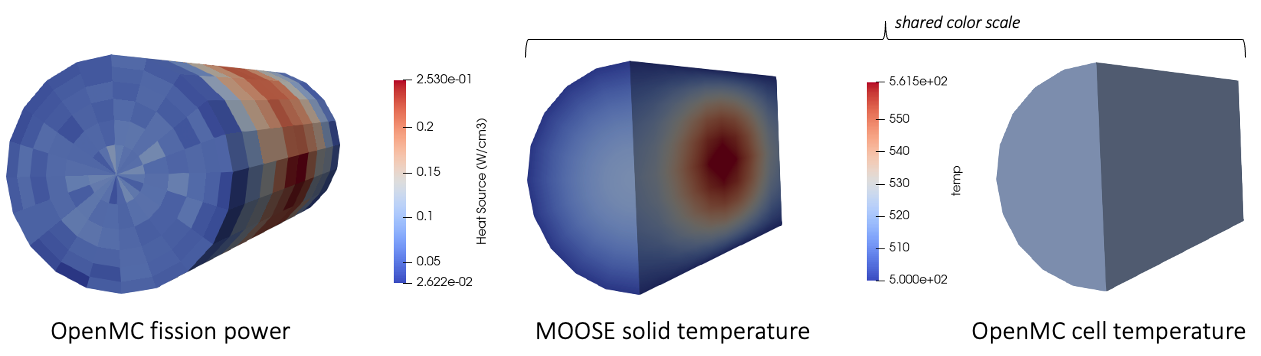
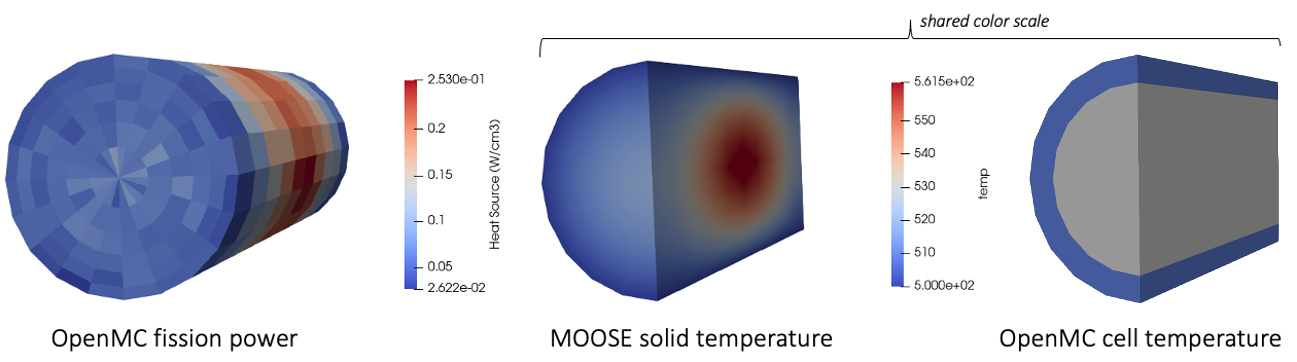
Update the Dagmc pincell test.

diff --git a/tutorials/dagmc/make_model.py b/tutorials/dagmc/make_model.py
@@ -45,5 +45,12 @@ p1.pixels = (400, 400)
 p1.color_by = 'material'
 p1.colors = {u235: 'yellow', water: 'blue'}
 
-plots = openmc.Plots([p1])
+p2 = openmc.Plot()
+p2.filename = 'plot2'
+p2.basis = 'xy'
+p2.width = (18.0, 18.0)
+p2.pixels = (400, 400)
+p2.color_by = 'cell'
+
+plots = openmc.Plots([p1, p2])
 plots.export_to_xml()

diff --git a/doc/content/tutorials/dagmc.md b/doc/content/tutorials/dagmc.md
@@ -2,7 +2,7 @@
 
 In this tutorial, you will learn how to:
 
-- Couple [!ac](DAGMC) models via temperature and heat source feedback to MOOSE for a pincell
+- Couple CAD Monte Carlo models via temperature and heat source feedback to MOOSE
 
 To access this tutorial,
 
@@ -18,17 +18,27 @@ No special computing needs are required for this tutorial.
 
 This model consists of a pincell, taken directly from an
 [OpenMC DAGMC tutorial](https://github.com/openmc-dev/openmc-notebooks/blob/main/cad-based-geometry.ipynb).
+[!ac](DAGMC) is a package for Monte Carlo transport on [!ac](CAD) geometry.
 We will not go into detail on how the DAGMC model was generated, but instead
 refer you to the [DAGMC documentation](https://svalinn.github.io/DAGMC/usersguide/index.html).
 
 The geometry consists of a U-235 cylinder enclosed in an annulus of water. The height is 40
-cm, and the outer diameter of the fuel cylinder is 14 cm.
+cm, and the outer diameter of the fuel cylinder is 18 cm.
 The total power is set to 1000 W. An image of the geometry is shown on the $x$-$y$ plane in
 [dagmc_geom].
 
 !media dagmc_pincell.png
   id=dagmc_geom
-  caption=OpenMC DAGMC geometry, on the $x$-$y$ plane.
+  caption=OpenMC DAGMC geometry colored by material, on the $x$-$y$ plane.
+  style=width:30%;margin-left:auto;margin-right:auto
+
+[dagmc_cells] shows the same DAGMC model, colored instead by cell. The two green regions
+are both U-235, while the purple is water. There is no particular reason why the model is
+built this way, since we are just fetching it from an existing OpenMC tutorial.
+
+!media dagmc_pincell_cell.png
+  id=dagmc_cells
+  caption=OpenMC DAGMC geometry colored by cell, on the $x$-$y$ plane.
   style=width:30%;margin-left:auto;margin-right:auto
 
 ### MOOSE Heat Conduction Model
@@ -36,7 +46,8 @@ The total power is set to 1000 W. An image of the geometry is shown on the $x$-$
 !include steady_hc.md
 
 [MeshGenerators](https://mooseframework.inl.gov/syntax/Mesh/index.html) are used to construct
-the solid mesh. [solid_mesh2] shows the solid mesh with block IDs and sidesets.
+the solid mesh. [solid_mesh2] shows the solid mesh with block IDs and sidesets. We will
+not model any heat transfer in the water region, for simplicity.
 Different block IDs are used for the hexahedral and prism elements
 in the pellet region because libMesh does not allow different element types
 to exist on the same block ID. To generate the mesh,
@@ -211,7 +222,8 @@ main application via subcycling, we would have a way to control that.
   start=Executioner
   end=Postprocessors
 
-Finally, we add a postprocessor to evaluate the total heat source computed by OpenMC.
+Finally, we add a postprocessor to evaluate the total heat source computed by OpenMC
+and query other parts of the solution.
 
 !listing /tutorials/dagmc/openmc.i
   block=Postprocessors
@@ -236,12 +248,13 @@ When the simulation has completed, you will have created a number of different o
 [dagmc_heat_source] shows the heat source computed by OpenMC (units of W/cm$^3$)
 and mapped to the MOOSE mesh, the solid temperature computed by MOOSE, and the
 temperature imposed in OpenMC. The two images showing temperature share a color scale,
-and are depicted as a slice through the pellet. Because the DAGMC model only has a single cell to
+and are depicted as a slice through the pellet. Because the DAGMC model only has two cells to
 represent the fuel region, the temperature imposed in OpenMC is a volume average
-over this entire region.
+over the elements corresponding to each of those two cells.
 If you want to resolve the solid temperature
 with more detail in the OpenMC model, simply add OpenMC cells where finer feedback
-is desired.
+is desired - *or*, you can adaptively re-generate the OpenMC cells using
+the [MoabSkinner](https://cardinal.cels.anl.gov/source/userobjects/MoabSkinner.html).
 
 !media dagmc_heat_source.png
   id=dagmc_heat_source
